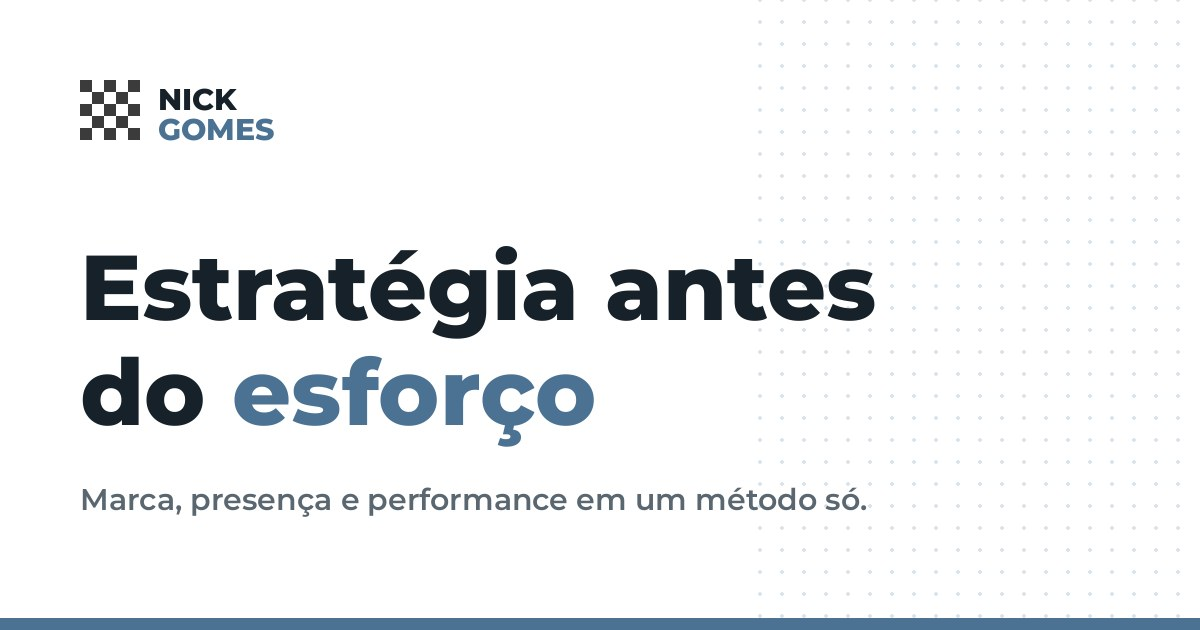
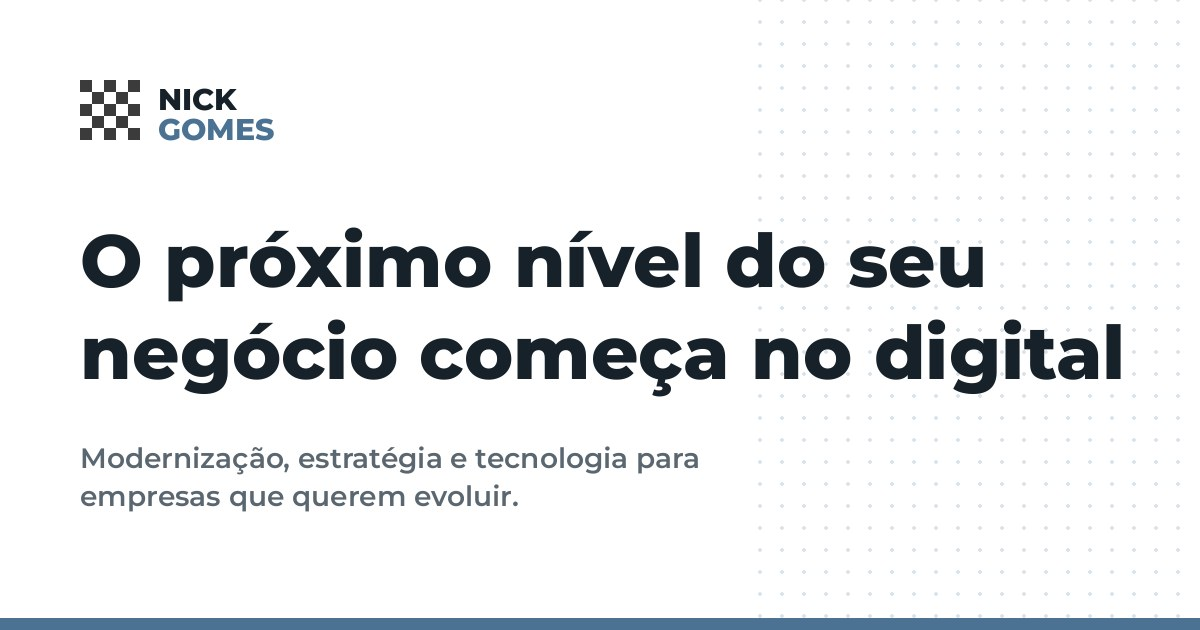
Nova frase principal, WhatsApp em verde e sem o quadrado-guia
- Início: "O próximo nível do seu negócio começa no digital" (uma cor só)
  + "Modernização, estratégia e tecnologia para empresas que querem
  evoluir."; slogan atualizado nos dados estruturados, llms.txt e
  imagem de compartilhamento
- Tira o símbolo grande do topo do Início e, com ele, o quadrado azul
  que acompanhava a rolagem (a linha do tempo fica preenchida)
- Botões e card do WhatsApp em verde #1DAA61; nota 5,0 no mesmo verde
- CSS/JS em ?v=14

Claude-Session: https://claude.ai/code/session_01Dav47Yhj6u8vXUu23vP6zL

Changed region(s): [[0.0617, 0.3619, 0.9558, 0.8143]]

diff --git a/index.html b/index.html
@@ -27,8 +27,8 @@
 <meta name="twitter:description" content="Estratégia de marketing digital para empresas que querem crescer: marca, presença digital e tráfego pago em um método só. Agende um diagnóstico.">
 <meta name="twitter:image" content="https://www.nickgomes.com/og-image.jpg">
 <link rel="preload" href="assets/fonts/montserrat.woff2" as="font" type="font/woff2" crossorigin>
-<link rel="stylesheet" href="assets/css/site.css?v=13">
-<script type="application/ld+json">{"@context": "https://schema.org", "@graph": [{"@type": "WebSite", "@id": "https://www.nickgomes.com/#site", "url": "https://www.nickgomes.com/", "name": "Nick Gomes", "inLanguage": "pt-BR", "publisher": {"@id": "https://www.nickgomes.com/#empresa"}}, {"@type": "ProfessionalService", "@id": "https://www.nickgomes.com/#empresa", "name": "Nick Gomes", "alternateName": "Nick Gomes Estratégia de Marketing Digital", "description": "Estratégia de marketing digital: marca, presença digital e performance (tráfego pago) em um método só.", "url": "https://www.nickgomes.com/", "logo": "https://www.nickgomes.com/apple-touch-icon.png?v=2", "image": "https://www.nickgomes.com/og-image.jpg", "telephone": "+5511945045350", "email": "contato@nickgomes.com", "areaServed": {"@type": "Country", "name": "Brasil"}, "slogan": "Estratégia antes do esforço", "founder": {"@id": "https://www.nickgomes.com/quem-somos/#nick"}, "contactPoint": {"@type": "ContactPoint", "telephone": "+5511945045350", "email": "contato@nickgomes.com", "contactType": "sales", "availableLanguage": "Portuguese"}, "knowsAbout": ["Marketing digital", "Posicionamento de marca", "Criação de sites", "Google Meu Negócio", "Google Workspace", "Tráfego pago", "Google Ads", "Meta Ads"], "hasOfferCatalog": {"@type": "OfferCatalog", "name": "Pilares", "itemListElement": [{"@type": "Offer", "itemOffered": {"@type": "Service", "name": "Marca", "description": "Diagnóstico, posicionamento, público e comunicação."}}, {"@type": "Offer", "itemOffered": {"@type": "Service", "name": "Presença", "description": "One page, site institucional, Google Meu Negócio, Google Workspace e integrações."}}, {"@type": "Offer", "itemOffered": {"@type": "Service", "name": "Performance", "description": "Tráfego pago, Google Ads, Meta Ads, análise e otimização."}}]}}, {"@type": "WebPage", "@id": "https://www.nickgomes.com/#pagina", "url": "https://www.nickgomes.com/", "name": "Nick Gomes | Estratégia de Marketing Digital para Empresas", "description": "Estratégia de marketing digital para empresas que querem crescer: marca, presença digital e tráfego pago em um método só. Agende um diagnóstico.", "inLanguage": "pt-BR", "isPartOf": {"@id": "https://www.nickgomes.com/#site"}, "about": {"@id": "https://www.nickgomes.com/#empresa"}, "dateModified": "2026-11-16"}]}</script>
+<link rel="stylesheet" href="assets/css/site.css?v=14">
+<script type="application/ld+json">{"@context": "https://schema.org", "@graph": [{"@type": "WebSite", "@id": "https://www.nickgomes.com/#site", "url": "https://www.nickgomes.com/", "name": "Nick Gomes", "inLanguage": "pt-BR", "publisher": {"@id": "https://www.nickgomes.com/#empresa"}}, {"@type": "ProfessionalService", "@id": "https://www.nickgomes.com/#empresa", "name": "Nick Gomes", "alternateName": "Nick Gomes Estratégia de Marketing Digital", "description": "Estratégia de marketing digital: marca, presença digital e performance (tráfego pago) em um método só.", "url": "https://www.nickgomes.com/", "logo": "https://www.nickgomes.com/apple-touch-icon.png?v=2", "image": "https://www.nickgomes.com/og-image.jpg", "telephone": "+5511945045350", "email": "contato@nickgomes.com", "areaServed": {"@type": "Country", "name": "Brasil"}, "slogan": "O próximo nível do seu negócio começa no digital", "founder": {"@id": "https://www.nickgomes.com/quem-somos/#nick"}, "contactPoint": {"@type": "ContactPoint", "telephone": "+5511945045350", "email": "contato@nickgomes.com", "contactType": "sales", "availableLanguage": "Portuguese"}, "knowsAbout": ["Marketing digital", "Posicionamento de marca", "Criação de sites", "Google Meu Negócio", "Google Workspace", "Tráfego pago", "Google Ads", "Meta Ads"], "hasOfferCatalog": {"@type": "OfferCatalog", "name": "Pilares", "itemListElement": [{"@type": "Offer", "itemOffered": {"@type": "Service", "name": "Marca", "description": "Diagnóstico, posicionamento, público e comunicação."}}, {"@type": "Offer", "itemOffered": {"@type": "Service", "name": "Presença", "description": "One page, site institucional, Google Meu Negócio, Google Workspace e integrações."}}, {"@type": "Offer", "itemOffered": {"@type": "Service", "name": "Performance", "description": "Tráfego pago, Google Ads, Meta Ads, análise e otimização."}}]}}, {"@type": "WebPage", "@id": "https://www.nickgomes.com/#pagina", "url": "https://www.nickgomes.com/", "name": "Nick Gomes | Estratégia de Marketing Digital para Empresas", "description": "Estratégia de marketing digital para empresas que querem crescer: marca, presença digital e tráfego pago em um método só. Agende um diagnóstico.", "inLanguage": "pt-BR", "isPartOf": {"@id": "https://www.nickgomes.com/#site"}, "about": {"@id": "https://www.nickgomes.com/#empresa"}, "dateModified": "2026-11-16"}]}</script>
 </head>
 <body>
 <a class="skip" href="#conteudo">Pular para o conteúdo</a>
@@ -41,8 +41,8 @@
 </div>
 </header>
 <main id="conteudo"><section class="hero">
-<span class="sym " aria-hidden="true"><i id=gslot></i></span><h1 class="h">Estratégia antes<br>do <span class="red">esforço</span></h1>
-<p class="lead">Marca, presença e performance em um método só.</p><div class="actions"><a class="ghost" href="projetos/">Ver projetos</a><a class="btn" href="https://wa.me/5511945045350?text=Ol%C3%A1%2C%20Nick%21%20Quero%20agendar%20um%20diagn%C3%B3stico." target="_blank" rel="noopener">Agendar diagnóstico</a><a class="ghost" href="#metodo">Como funciona</a></div>
+<h1 class="h">O próximo nível do seu negócio começa no digital</h1>
+<p class="lead">Modernização, estratégia e tecnologia para empresas que querem evoluir.</p><div class="actions"><a class="ghost" href="projetos/">Ver projetos</a><a class="btn" href="https://wa.me/5511945045350?text=Ol%C3%A1%2C%20Nick%21%20Quero%20agendar%20um%20diagn%C3%B3stico." target="_blank" rel="noopener">Agendar diagnóstico</a><a class="ghost" href="#metodo">Como funciona</a></div>
 </section>
 <div class="wrap"><div class="panel"><p class="h h2c">Estruture o marketing da sua empresa<br>em <span class="red">apenas 3 passos</span></p><div class="steps"><div class="line" aria-hidden="true"><b></b></div><div class="step"><div class="num">01</div><h2 class="h">Conheça os <span class="red">pilares</span> da Nick Gomes</h2><p>Soluções para a sua empresa <b>ser lembrada</b>, <b>ser encontrada</b> e <b>vender mais</b>.</p><div class="body"><div class="tabs" role="tablist" aria-label="Pilares"><button class="tab" type="button" role="tab" id="tab-marca" aria-controls="pn-marca" aria-selected="false" tabindex="-1"><span class="ti" aria-hidden="true"><span style="width:22px;height:22px;background:currentColor"></span></span>Marca</button><button class="tab" type="button" role="tab" id="tab-presenca" aria-controls="pn-presenca" aria-selected="true" tabindex="0"><span class="ti" aria-hidden="true"><span style="width:20px;height:20px;border:3px solid currentColor;transform:rotate(45deg)"></span></span>Presença</button><button class="tab" type="button" role="tab" id="tab-performance" aria-controls="pn-performance" aria-selected="false" tabindex="-1"><span class="ti" aria-hidden="true"><span style="width:22px;height:22px;background:currentColor;border-top-left-radius:12px"></span></span>Performance</button></div><div class="tp" role="tabpanel" id="pn-marca" aria-labelledby="tab-marca" hidden><div><h3>Estratégia de marca</h3><p>Diagnóstico, posicionamento, público e comunicação para a sua empresa parar de ser comparada só pelo preço.</p><ul><li>Diagnóstico completo do negócio</li><li>Posicionamento e definição de público</li><li>Comunicação alinhada ao que você entrega</li></ul>
 <a class="btn" href="https://wa.me/5511945045350?text=Ol%C3%A1%2C%20Nick%21%20Quero%20organizar%20minha%20marca." target="_blank" rel="noopener">Quero organizar minha marca →</a></div>
@@ -63,6 +63,6 @@
 <span class="m">Estratégia de marketing digital</span>
 <span>© 2026 Nick Gomes · <a href="mailto:contato@nickgomes.com">contato@nickgomes.com</a> · <a href="https://wa.me/5511945045350?text=Ol%C3%A1%2C%20Nick%21" target="_blank" rel="noopener">WhatsApp (11) 94504-5350</a></span>
 </footer>
-<script src="assets/js/site.js?v=13" defer></script>
+<script src="assets/js/site.js?v=14" defer></script>
 </body>
 </html>

diff --git a/404.html b/404.html
@@ -26,8 +26,8 @@
 <meta name="twitter:description" content="A página que você procurou não existe.">
 <meta name="twitter:image" content="https://www.nickgomes.com/og-image.jpg">
 <link rel="preload" href="/assets/fonts/montserrat.woff2" as="font" type="font/woff2" crossorigin>
-<link rel="stylesheet" href="/assets/css/site.css?v=13">
-<script type="application/ld+json">{"@context": "https://schema.org", "@graph": [{"@type": "WebSite", "@id": "https://www.nickgomes.com/#site", "url": "https://www.nickgomes.com/", "name": "Nick Gomes", "inLanguage": "pt-BR", "publisher": {"@id": "https://www.nickgomes.com/#empresa"}}, {"@type": "ProfessionalService", "@id": "https://www.nickgomes.com/#empresa", "name": "Nick Gomes", "alternateName": "Nick Gomes Estratégia de Marketing Digital", "description": "Estratégia de marketing digital: marca, presença digital e performance (tráfego pago) em um método só.", "url": "https://www.nickgomes.com/", "logo": "https://www.nickgomes.com/apple-touch-icon.png?v=2", "image": "https://www.nickgomes.com/og-image.jpg", "telephone": "+5511945045350", "email": "contato@nickgomes.com", "areaServed": {"@type": "Country", "name": "Brasil"}, "slogan": "Estratégia antes do esforço", "founder": {"@id": "https://www.nickgomes.com/quem-somos/#nick"}, "contactPoint": {"@type": "ContactPoint", "telephone": "+5511945045350", "email": "contato@nickgomes.com", "contactType": "sales", "availableLanguage": "Portuguese"}, "knowsAbout": ["Marketing digital", "Posicionamento de marca", "Criação de sites", "Google Meu Negócio", "Google Workspace", "Tráfego pago", "Google Ads", "Meta Ads"], "hasOfferCatalog": {"@type": "OfferCatalog", "name": "Pilares", "itemListElement": [{"@type": "Offer", "itemOffered": {"@type": "Service", "name": "Marca", "description": "Diagnóstico, posicionamento, público e comunicação."}}, {"@type": "Offer", "itemOffered": {"@type": "Service", "name": "Presença", "description": "One page, site institucional, Google Meu Negócio, Google Workspace e integrações."}}, {"@type": "Offer", "itemOffered": {"@type": "Service", "name": "Performance", "description": "Tráfego pago, Google Ads, Meta Ads, análise e otimização."}}]}}, {"@type": "WebPage", "@id": "https://www.nickgomes.com/#pagina", "url": "https://www.nickgomes.com/", "name": "Página não encontrada", "description": "", "inLanguage": "pt-BR", "isPartOf": {"@id": "https://www.nickgomes.com/#site"}, "about": {"@id": "https://www.nickgomes.com/#empresa"}, "dateModified": "2026-11-16"}]}</script>
+<link rel="stylesheet" href="/assets/css/site.css?v=14">
+<script type="application/ld+json">{"@context": "https://schema.org", "@graph": [{"@type": "WebSite", "@id": "https://www.nickgomes.com/#site", "url": "https://www.nickgomes.com/", "name": "Nick Gomes", "inLanguage": "pt-BR", "publisher": {"@id": "https://www.nickgomes.com/#empresa"}}, {"@type": "ProfessionalService", "@id": "https://www.nickgomes.com/#empresa", "name": "Nick Gomes", "alternateName": "Nick Gomes Estratégia de Marketing Digital", "description": "Estratégia de marketing digital: marca, presença digital e performance (tráfego pago) em um método só.", "url": "https://www.nickgomes.com/", "logo": "https://www.nickgomes.com/apple-touch-icon.png?v=2", "image": "https://www.nickgomes.com/og-image.jpg", "telephone": "+5511945045350", "email": "contato@nickgomes.com", "areaServed": {"@type": "Country", "name": "Brasil"}, "slogan": "O próximo nível do seu negócio começa no digital", "founder": {"@id": "https://www.nickgomes.com/quem-somos/#nick"}, "contactPoint": {"@type": "ContactPoint", "telephone": "+5511945045350", "email": "contato@nickgomes.com", "contactType": "sales", "availableLanguage": "Portuguese"}, "knowsAbout": ["Marketing digital", "Posicionamento de marca", "Criação de sites", "Google Meu Negócio", "Google Workspace", "Tráfego pago", "Google Ads", "Meta Ads"], "hasOfferCatalog": {"@type": "OfferCatalog", "name": "Pilares", "itemListElement": [{"@type": "Offer", "itemOffered": {"@type": "Service", "name": "Marca", "description": "Diagnóstico, posicionamento, público e comunicação."}}, {"@type": "Offer", "itemOffered": {"@type": "Service", "name": "Presença", "description": "One page, site institucional, Google Meu Negócio, Google Workspace e integrações."}}, {"@type": "Offer", "itemOffered": {"@type": "Service", "name": "Performance", "description": "Tráfego pago, Google Ads, Meta Ads, análise e otimização."}}]}}, {"@type": "WebPage", "@id": "https://www.nickgomes.com/#pagina", "url": "https://www.nickgomes.com/", "name": "Página não encontrada", "description": "", "inLanguage": "pt-BR", "isPartOf": {"@id": "https://www.nickgomes.com/#site"}, "about": {"@id": "https://www.nickgomes.com/#empresa"}, "dateModified": "2026-11-16"}]}</script>
 </head>
 <body>
 <a class="skip" href="#conteudo">Pular para o conteúdo</a>
@@ -48,6 +48,6 @@
 <span class="m">Estratégia de marketing digital</span>
 <span>© 2026 Nick Gomes · <a href="mailto:contato@nickgomes.com">contato@nickgomes.com</a> · <a href="https://wa.me/5511945045350?text=Ol%C3%A1%2C%20Nick%21" target="_blank" rel="noopener">WhatsApp (11) 94504-5350</a></span>
 </footer>
-<script src="/assets/js/site.js?v=13" defer></script>
+<script src="/assets/js/site.js?v=14" defer></script>
 </body>
 </html>

diff --git a/projetos/index.html b/projetos/index.html
@@ -27,7 +27,7 @@
 <meta name="twitter:description" content="Veja sites no ar de lazer, imóveis e serviços, e referências prontas para condomínios, contabilidade e advocacia. Projetos impossíveis de ignorar.">
 <meta name="twitter:image" content="https://www.nickgomes.com/og-image.jpg">
 <link rel="preload" href="../assets/fonts/montserrat.woff2" as="font" type="font/woff2" crossorigin>
-<link rel="stylesheet" href="../assets/css/site.css?v=13">
+<link rel="stylesheet" href="../assets/css/site.css?v=14">
 <script type="application/ld+json">{"@context": "https://schema.org", "@graph": [{"@type": "WebSite", "@id": "https://www.nickgomes.com/#site", "url": "https://www.nickgomes.com/", "name": "Nick Gomes", "inLanguage": "pt-BR", "publisher": {"@id": "https://www.nickgomes.com/#empresa"}}, {"@id": "https://www.nickgomes.com/#empresa", "@type": "ProfessionalService", "name": "Nick Gomes", "url": "https://www.nickgomes.com/"}, {"@type": "CollectionPage", "@id": "https://www.nickgomes.com/projetos/#pagina", "url": "https://www.nickgomes.com/projetos/", "name": "Projetos e sites no ar | Nick Gomes", "description": "Veja sites no ar de lazer, imóveis e serviços, e referências prontas para condomínios, contabilidade e advocacia. Projetos impossíveis de ignorar.", "inLanguage": "pt-BR", "isPartOf": {"@id": "https://www.nickgomes.com/#site"}, "about": {"@id": "https://www.nickgomes.com/#empresa"}, "dateModified": "2026-11-16"}, {"@type": "BreadcrumbList", "itemListElement": [{"@type": "ListItem", "position": 1, "name": "Início", "item": "https://www.nickgomes.com/"}, {"@type": "ListItem", "position": 2, "name": "Projetos", "item": "https://www.nickgomes.com/projetos/"}]}, {"@type": "ItemList", "name": "Sites no ar", "itemListElement": [{"@type": "ListItem", "position": 1, "item": {"@type": "CreativeWork", "name": "Site Combat Rush Paintball", "genre": "Lazer", "creator": {"@id": "https://www.nickgomes.com/#empresa"}}}, {"@type": "ListItem", "position": 2, "item": {"@type": "CreativeWork", "name": "Site Guilherme Azevedo", "genre": "Imóveis", "creator": {"@id": "https://www.nickgomes.com/#empresa"}}}, {"@type": "ListItem", "position": 3, "item": {"@type": "CreativeWork", "name": "Site Perform Soluções Elétricas", "genre": "Serviços", "creator": {"@id": "https://www.nickgomes.com/#empresa"}}}]}]}</script>
 </head>
 <body>
@@ -54,6 +54,6 @@
 <span class="m">Estratégia de marketing digital</span>
 <span>© 2026 Nick Gomes · <a href="mailto:contato@nickgomes.com">contato@nickgomes.com</a> · <a href="https://wa.me/5511945045350?text=Ol%C3%A1%2C%20Nick%21" target="_blank" rel="noopener">WhatsApp (11) 94504-5350</a></span>
 </footer>
-<script src="../assets/js/site.js?v=13" defer></script>
+<script src="../assets/js/site.js?v=14" defer></script>
 </body>
 </html>

diff --git a/quem-somos/index.html b/quem-somos/index.html
@@ -27,7 +27,7 @@
 <meta name="twitter:description" content="Conheça Nick Gomes: estratégia de marketing digital que conecta posicionamento, estrutura digital e performance para transformar a sua empresa.">
 <meta name="twitter:image" content="https://www.nickgomes.com/og-image.jpg">
 <link rel="preload" href="../assets/fonts/montserrat.woff2" as="font" type="font/woff2" crossorigin>
-<link rel="stylesheet" href="../assets/css/site.css?v=13">
+<link rel="stylesheet" href="../assets/css/site.css?v=14">
 <script type="application/ld+json">{"@context": "https://schema.org", "@graph": [{"@type": "WebSite", "@id": "https://www.nickgomes.com/#site", "url": "https://www.nickgomes.com/", "name": "Nick Gomes", "inLanguage": "pt-BR", "publisher": {"@id": "https://www.nickgomes.com/#empresa"}}, {"@id": "https://www.nickgomes.com/#empresa", "@type": "ProfessionalService", "name": "Nick Gomes", "url": "https://www.nickgomes.com/"}, {"@type": "AboutPage", "@id": "https://www.nickgomes.com/quem-somos/#pagina", "url": "https://www.nickgomes.com/quem-somos/", "name": "Quem somos | Nick Gomes, Estratégia de Marketing Digital", "description": "Conheça Nick Gomes: estratégia de marketing digital que conecta posicionamento, estrutura digital e performance para transformar a sua empresa.", "inLanguage": "pt-BR", "isPartOf": {"@id": "https://www.nickgomes.com/#site"}, "about": {"@id": "https://www.nickgomes.com/#empresa"}, "dateModified": "2026-11-16"}, {"@type": "BreadcrumbList", "itemListElement": [{"@type": "ListItem", "position": 1, "name": "Início", "item": "https://www.nickgomes.com/"}, {"@type": "ListItem", "position": 2, "name": "Quem somos", "item": "https://www.nickgomes.com/quem-somos/"}]}, {"@type": "Person", "@id": "https://www.nickgomes.com/quem-somos/#nick", "name": "Nick Gomes", "givenName": "Nicholas", "familyName": "Gomes", "jobTitle": "Idealizador", "image": "https://www.nickgomes.com/assets/img/nick-gomes.webp", "worksFor": {"@id": "https://www.nickgomes.com/#empresa"}, "url": "https://www.nickgomes.com/quem-somos/", "knowsAbout": ["Comércio Exterior", "Marketing digital", "Estratégia de marca"]}]}</script>
 </head>
 <body>
@@ -57,6 +57,6 @@
 <span class="m">Estratégia de marketing digital</span>
 <span>© 2026 Nick Gomes · <a href="mailto:contato@nickgomes.com">contato@nickgomes.com</a> · <a href="https://wa.me/5511945045350?text=Ol%C3%A1%2C%20Nick%21" target="_blank" rel="noopener">WhatsApp (11) 94504-5350</a></span>
 </footer>
-<script src="../assets/js/site.js?v=13" defer></script>
+<script src="../assets/js/site.js?v=14" defer></script>
 </body>
 </html>

diff --git a/depoimentos/index.html b/depoimentos/index.html
@@ -27,7 +27,7 @@
 <meta name="twitter:description" content="Avaliações reais de clientes da Nick Gomes no Google: sites, presença digital e integração de pagamento que trouxeram mais visibilidade e resultado.">
 <meta name="twitter:image" content="https://www.nickgomes.com/og-image.jpg">
 <link rel="preload" href="../assets/fonts/montserrat.woff2" as="font" type="font/woff2" crossorigin>
-<link rel="stylesheet" href="../assets/css/site.css?v=13">
+<link rel="stylesheet" href="../assets/css/site.css?v=14">
 <script type="application/ld+json">{"@context": "https://schema.org", "@graph": [{"@type": "WebSite", "@id": "https://www.nickgomes.com/#site", "url": "https://www.nickgomes.com/", "name": "Nick Gomes", "inLanguage": "pt-BR", "publisher": {"@id": "https://www.nickgomes.com/#empresa"}}, {"@id": "https://www.nickgomes.com/#empresa", "@type": "ProfessionalService", "name": "Nick Gomes", "url": "https://www.nickgomes.com/"}, {"@type": "WebPage", "@id": "https://www.nickgomes.com/depoimentos/#pagina", "url": "https://www.nickgomes.com/depoimentos/", "name": "Depoimentos de clientes | Nick Gomes", "description": "Avaliações reais de clientes da Nick Gomes no Google: sites, presença digital e integração de pagamento que trouxeram mais visibilidade e resultado.", "inLanguage": "pt-BR", "isPartOf": {"@id": "https://www.nickgomes.com/#site"}, "about": {"@id": "https://www.nickgomes.com/#empresa"}, "dateModified": "2026-11-16"}, {"@type": "BreadcrumbList", "itemListElement": [{"@type": "ListItem", "position": 1, "name": "Início", "item": "https://www.nickgomes.com/"}, {"@type": "ListItem", "position": 2, "name": "Depoimentos", "item": "https://www.nickgomes.com/depoimentos/"}]}]}</script>
 </head>
 <body>
@@ -59,6 +59,6 @@
 <span class="m">Estratégia de marketing digital</span>
 <span>© 2026 Nick Gomes · <a href="mailto:contato@nickgomes.com">contato@nickgomes.com</a> · <a href="https://wa.me/5511945045350?text=Ol%C3%A1%2C%20Nick%21" target="_blank" rel="noopener">WhatsApp (11) 94504-5350</a></span>
 </footer>
-<script src="../assets/js/site.js?v=13" defer></script>
+<script src="../assets/js/site.js?v=14" defer></script>
 </body>
 </html>

diff --git a/contato/index.html b/contato/index.html
@@ -27,7 +27,7 @@
 <meta name="twitter:description" content="Fale direto com o Nick pelo WhatsApp (11) 94504-5350 ou pelo e-mail contato@nickgomes.com e receba um diagnóstico do marketing da sua empresa.">
 <meta name="twitter:image" content="https://www.nickgomes.com/og-image.jpg">
 <link rel="preload" href="../assets/fonts/montserrat.woff2" as="font" type="font/woff2" crossorigin>
-<link rel="stylesheet" href="../assets/css/site.css?v=13">
+<link rel="stylesheet" href="../assets/css/site.css?v=14">
 <script type="application/ld+json">{"@context": "https://schema.org", "@graph": [{"@type": "WebSite", "@id": "https://www.nickgomes.com/#site", "url": "https://www.nickgomes.com/", "name": "Nick Gomes", "inLanguage": "pt-BR", "publisher": {"@id": "https://www.nickgomes.com/#empresa"}}, {"@id": "https://www.nickgomes.com/#empresa", "@type": "ProfessionalService", "name": "Nick Gomes", "url": "https://www.nickgomes.com/"}, {"@type": "ContactPage", "@id": "https://www.nickgomes.com/contato/#pagina", "url": "https://www.nickgomes.com/contato/", "name": "Contato e diagnóstico | Nick Gomes", "description": "Fale direto com o Nick pelo WhatsApp (11) 94504-5350 ou pelo e-mail contato@nickgomes.com e receba um diagnóstico do marketing da sua empresa.", "inLanguage": "pt-BR", "isPartOf": {"@id": "https://www.nickgomes.com/#site"}, "about": {"@id": "https://www.nickgomes.com/#empresa"}, "dateModified": "2026-11-16"}, {"@type": "BreadcrumbList", "itemListElement": [{"@type": "ListItem", "position": 1, "name": "Início", "item": "https://www.nickgomes.com/"}, {"@type": "ListItem", "position": 2, "name": "Contato", "item": "https://www.nickgomes.com/contato/"}]}]}</script>
 </head>
 <body>
@@ -50,6 +50,6 @@
 <span class="m">Estratégia de marketing digital</span>
 <span>© 2026 Nick Gomes · <a href="mailto:contato@nickgomes.com">contato@nickgomes.com</a> · <a href="https://wa.me/5511945045350?text=Ol%C3%A1%2C%20Nick%21" target="_blank" rel="noopener">WhatsApp (11) 94504-5350</a></span>
 </footer>
-<script src="../assets/js/site.js?v=13" defer></script>
+<script src="../assets/js/site.js?v=14" defer></script>
 </body>
 </html>

diff --git a/assets/css/site.css b/assets/css/site.css
@@ -456,3 +456,14 @@ body,body *{font-family:var(--mont)!important}
   .hero .sym{width:80px;height:80px}
   .num{font-size:30px}
 }
+
+/* WhatsApp em verde (como no sites.nickgomes.com) */
+:root{--wa:#1DAA61;--wa-dark:#178A4F}
+a.btn[href*="wa.me"],.menu .mcta a[href*="wa.me"],a.cc.wa{background:var(--wa);color:#fff}
+a.btn[href*="wa.me"]:hover,.menu .mcta a[href*="wa.me"]:hover{background:var(--wa-dark)}
+a.cc.wa{box-shadow:0 14px 34px rgba(29,170,97,.28)}
+a.cc.wa .k{color:#fff}
+@keyframes pulse{0%,100%{box-shadow:0 0 0 0 rgba(29,170,97,.45)}60%{box-shadow:0 0 0 14px rgba(29,170,97,0)}}
+/* nota 5,0 do Google no mesmo verde */
+.score .h,.badge .h{color:var(--wa)}
+.hero h1{text-wrap:balance}
